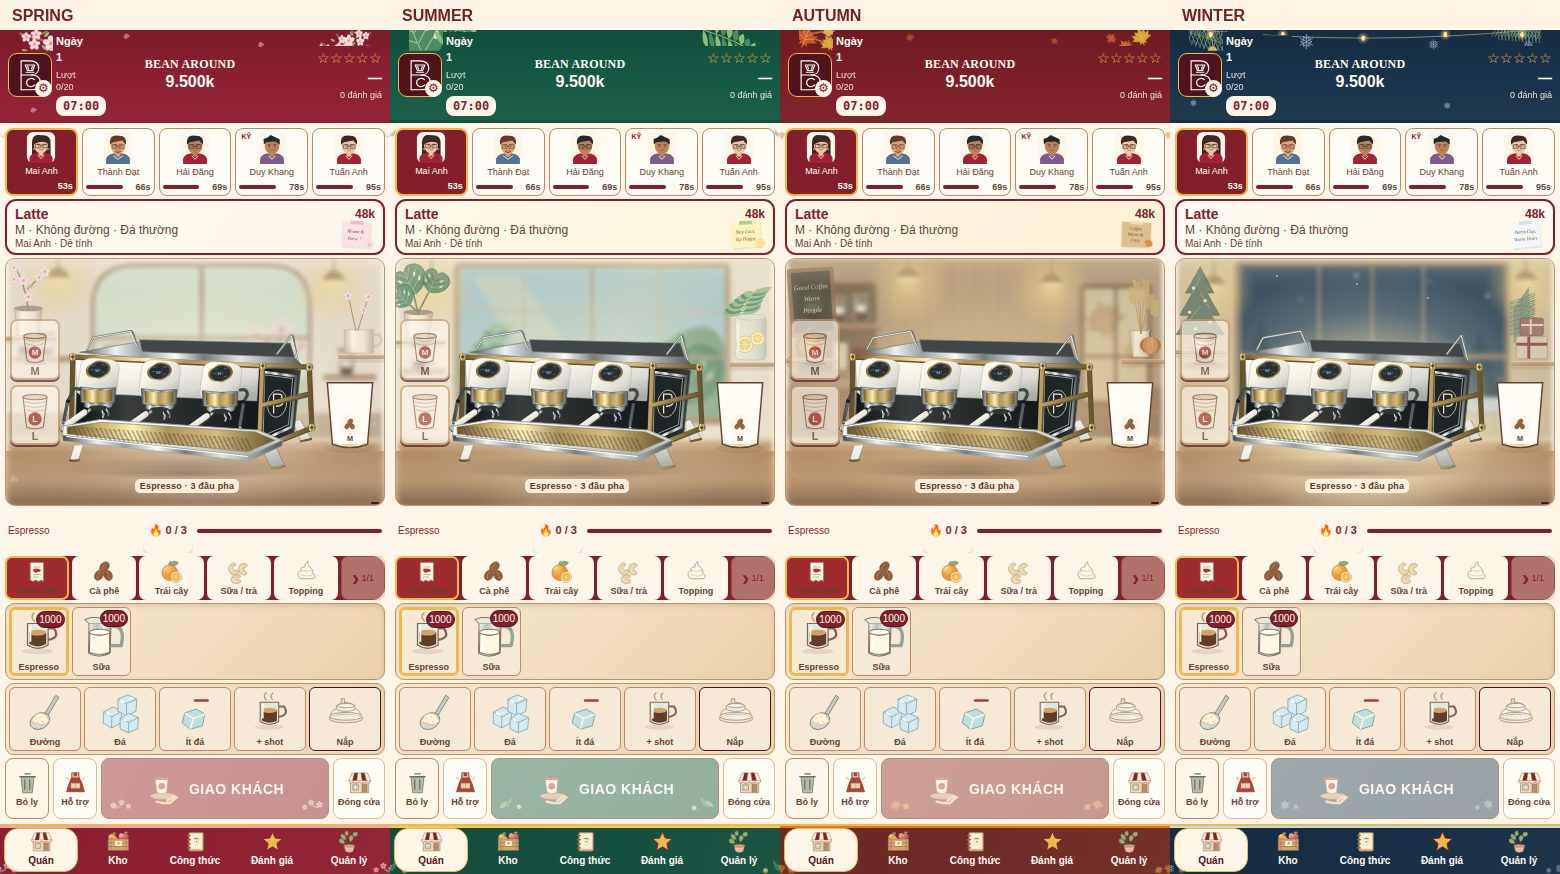
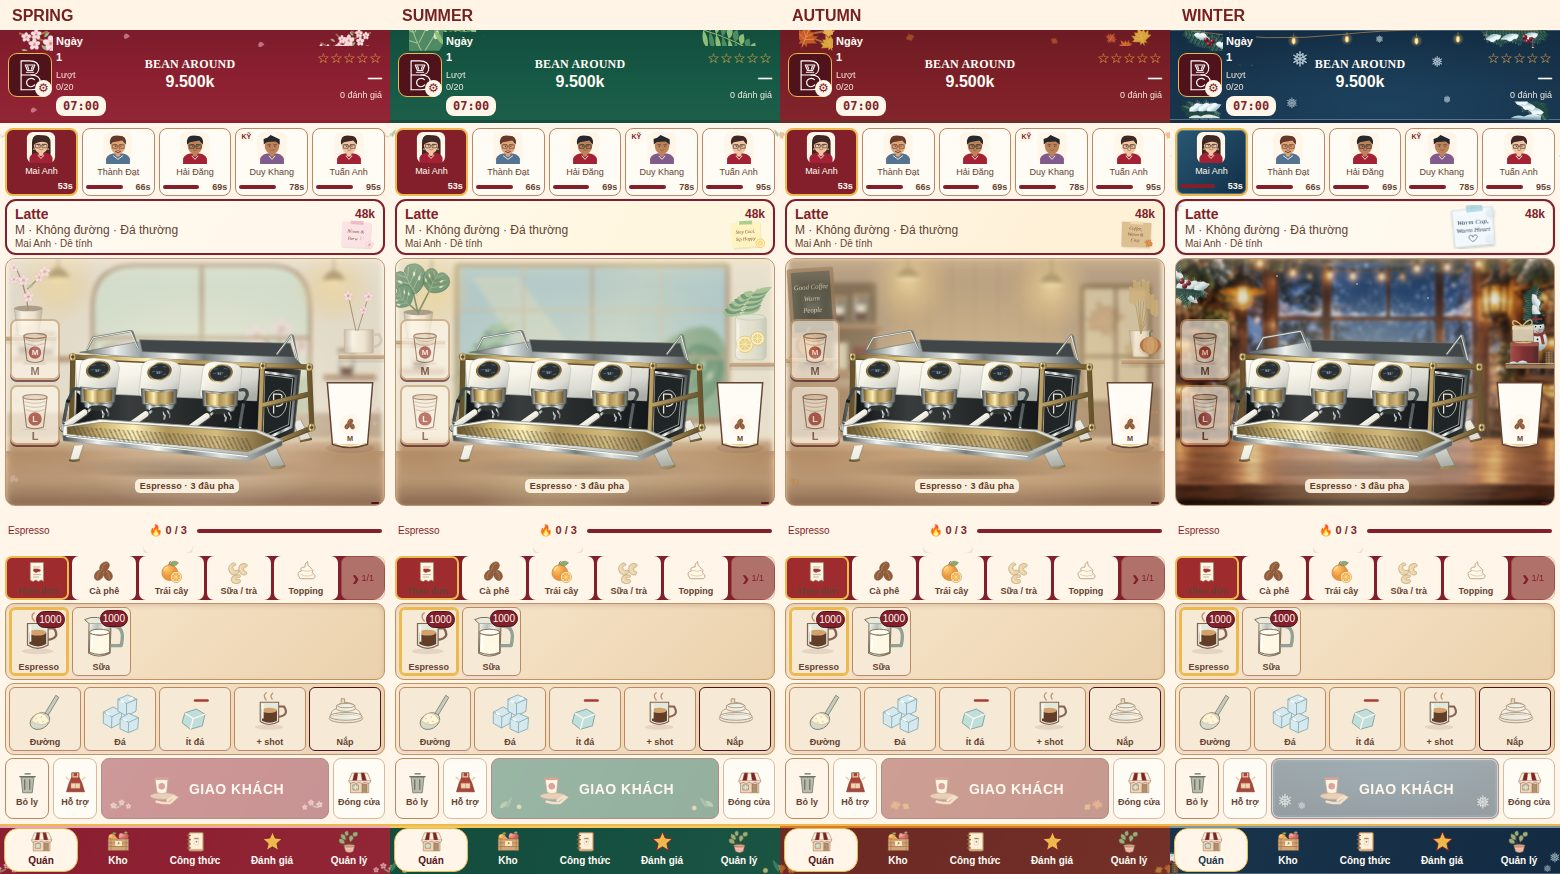
Document winter reference verification and attach inspected game screenshots

diff --git a/docs/winter-reference.md b/docs/winter-reference.md
@@ -1,0 +1,39 @@
+# Winter reference refinement — 6 October 2026
+
+The supplied winter concept is used as a visual reference. Existing gameplay dimensions and control positions remain authoritative; the concept's numeric row heights are not used to resize the game.
+
+## Changes
+- Header: detailed frosted pine needles, red berries, silver bauble, five snowflakes and five warm bulbs over the existing navy header. The live text and settings button are protected by a mask based on actual glyph bounds.
+- Waiting queue: snowy pine at outer edges; selected customer navy, with existing urgent warning colors intact.
+- Order: pale-blue taped "Warm Cup, Warm Heart" note next to the price. Actual glyph intersection is checked, including title, options, customer and price; long orders suppress the note. No padding or control size changes.
+- Machine stage: an original generated winter café illustration, inspired by the reference, with wood shelves, coffee jars, snowy window and warm pendant/lantern. A 780×520 WebP derivative (~109KB) is used at runtime; the original PNG is preserved under sources. This is café artwork, not a photograph or technical equipment reference.
+- Edge props: detailed small snowman, two wrapped gifts, snowy pine and pinecone. A lit small tree and café chalkboard appear only for the narrower juicer/blender stages, where space is available; they do not crowd the wide espresso machine.
+- Delivery CTA and navigation: icy highlights, snowflakes and pine corner ornaments. Existing dimensions, active areas and disabled-button feedback remain unchanged.
+- Machine/cup assets, recipes, inventory, prices, order volumes, save migration and gameplay timing are unchanged. Spring, summer and autumn art/config are unchanged.
+- Visual preview only; production is not deployed.
+
+## Assets and implementation
+- index.html: winter configuration, paint-only CSS, optional winter prop image, header text mask and safe note placement.
+- assets/bean-around/winter-cafe-room.webp: optimized room used by the game.
+- assets/bean-around/sources/winter-cafe-2026.png: original generated source, never loaded by gameplay.
+- assets/bean-around/season-winter-{header,props,counter,note,pine-corner,cta-right,nav-left,nav-right}.svg and season-winter.svg: original vector decoration.
+- tests/season-theme-browser.cjs: real Chromium/WebKit validation and screenshot runner. The original generated source is resized/compressed only in the isolated test environment; no runtime dependency added.
+
+## Verification
+1,089 deterministic logic checks passed. The unchanged service renderer, panel patcher, equipment patcher, stock/recipe operations, save migration and online forecast functions were compared to the previous feature-branch version.
+
+Chromium and WebKit both pass at 375×812, 390×844 and 430×932. Fourteen service/header/navigation rectangles match the original baseline (within 0.75 CSS px), main touch targets remain at least 44px, hit-testing succeeds, no horizontal overflow, and no JavaScript/console/asset errors. Machine/cup remain fully opaque with no filter; decoded equipment and background DOM stay mounted through machine switches. Winter notes hide for long orders and use the intended 50×44px decoration box beside the price. Additional tree/chalkboard props are hidden for espresso and visible only for narrower devices.
+Actual running-game screenshots were opened and inspected at all three widths, and with espresso, juicer and blender idle/working. A CSS-specificity issue in the first pass was corrected; screenshots now explicitly await image decoding before capture.
+No physical-iPhone validation or sustained frame-rate profiling is claimed. This static HTML repository has no configured build/lint/typecheck task; JavaScript parsing, deterministic checks and actual browser tests were used.
+
+Tested code: `2ea0d14bdf2add938558fb4d732acd0a473d2913`.
+[Browser CI run](https://github.com/tungtran2512/beanaround/actions/runs/37394481567).
+
+## Actual screenshots
+- [Before: previous four-season implementation](screenshots/winter-reference-before.jpg)
+- [After: winter at 375, 390 and 430px](screenshots/winter-reference-responsive.jpg)
+- [After: machine stages, idle and working](screenshots/winter-reference-machines.jpg)
+- [Four seasons after change](screenshots/four-seasons-390.jpg)
+- [Chromium report](screenshots/winter-reference-chromium.json)
+- [WebKit report](screenshots/winter-reference-webkit.json)
+
